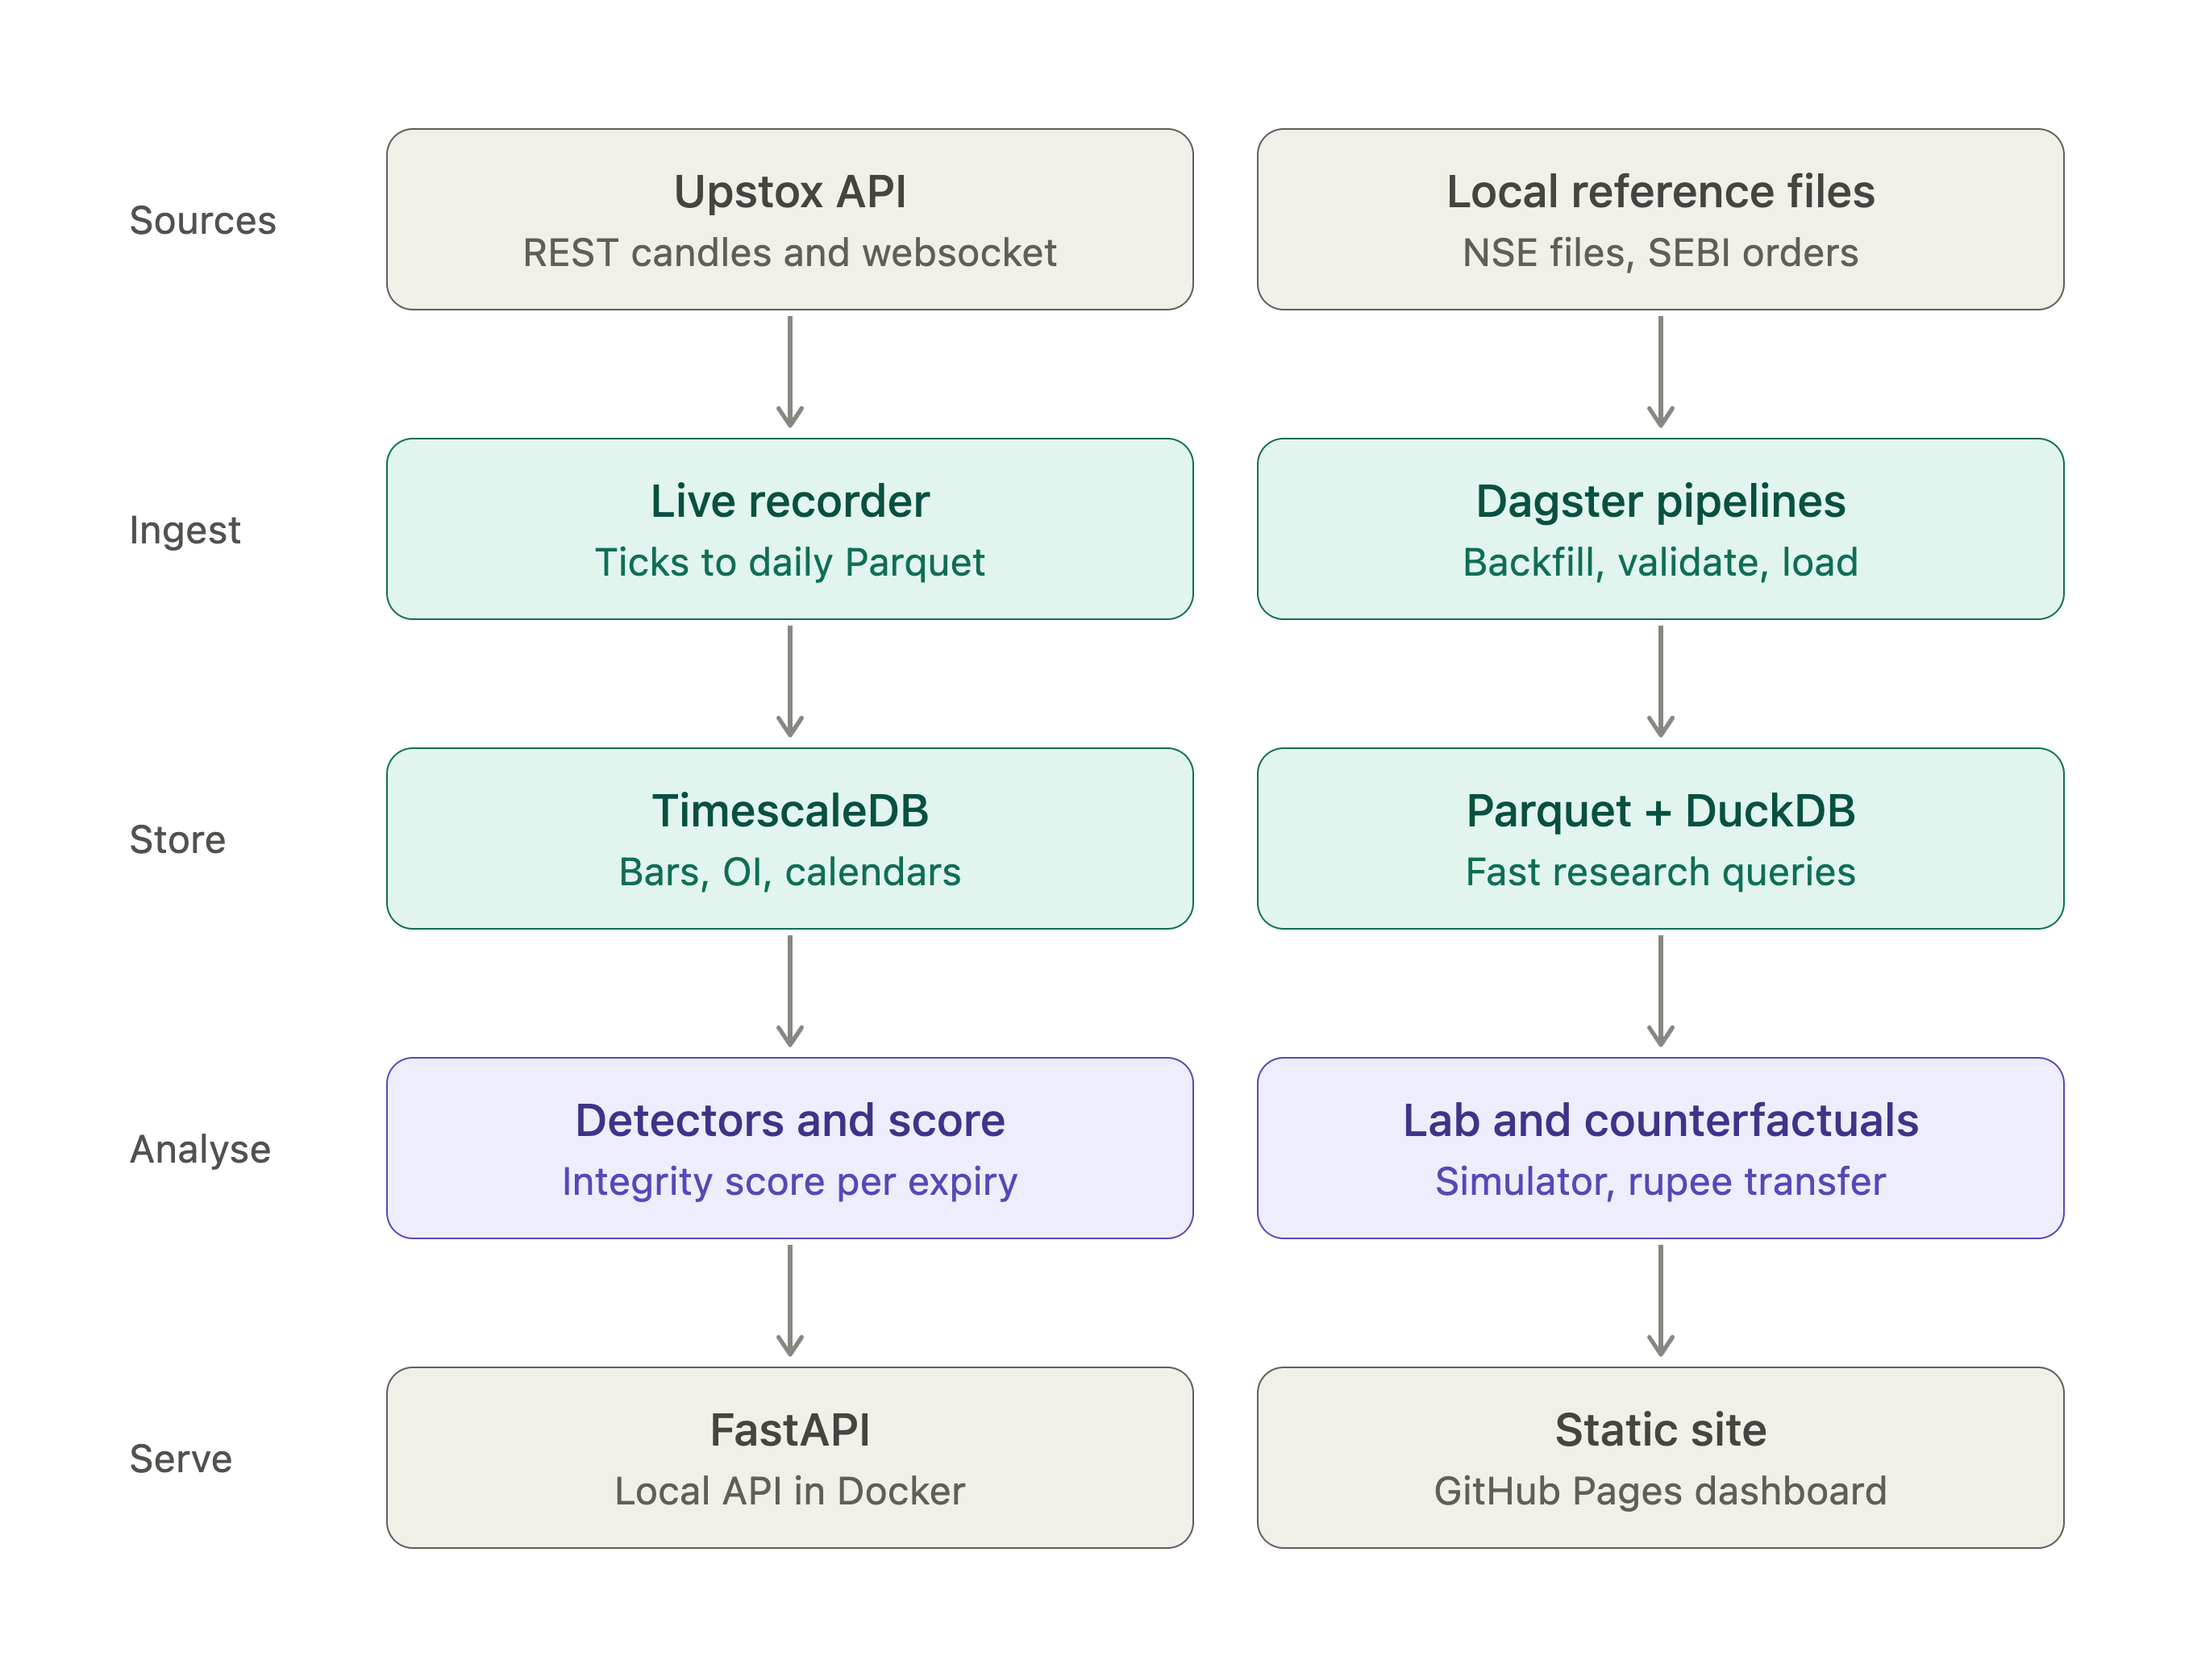
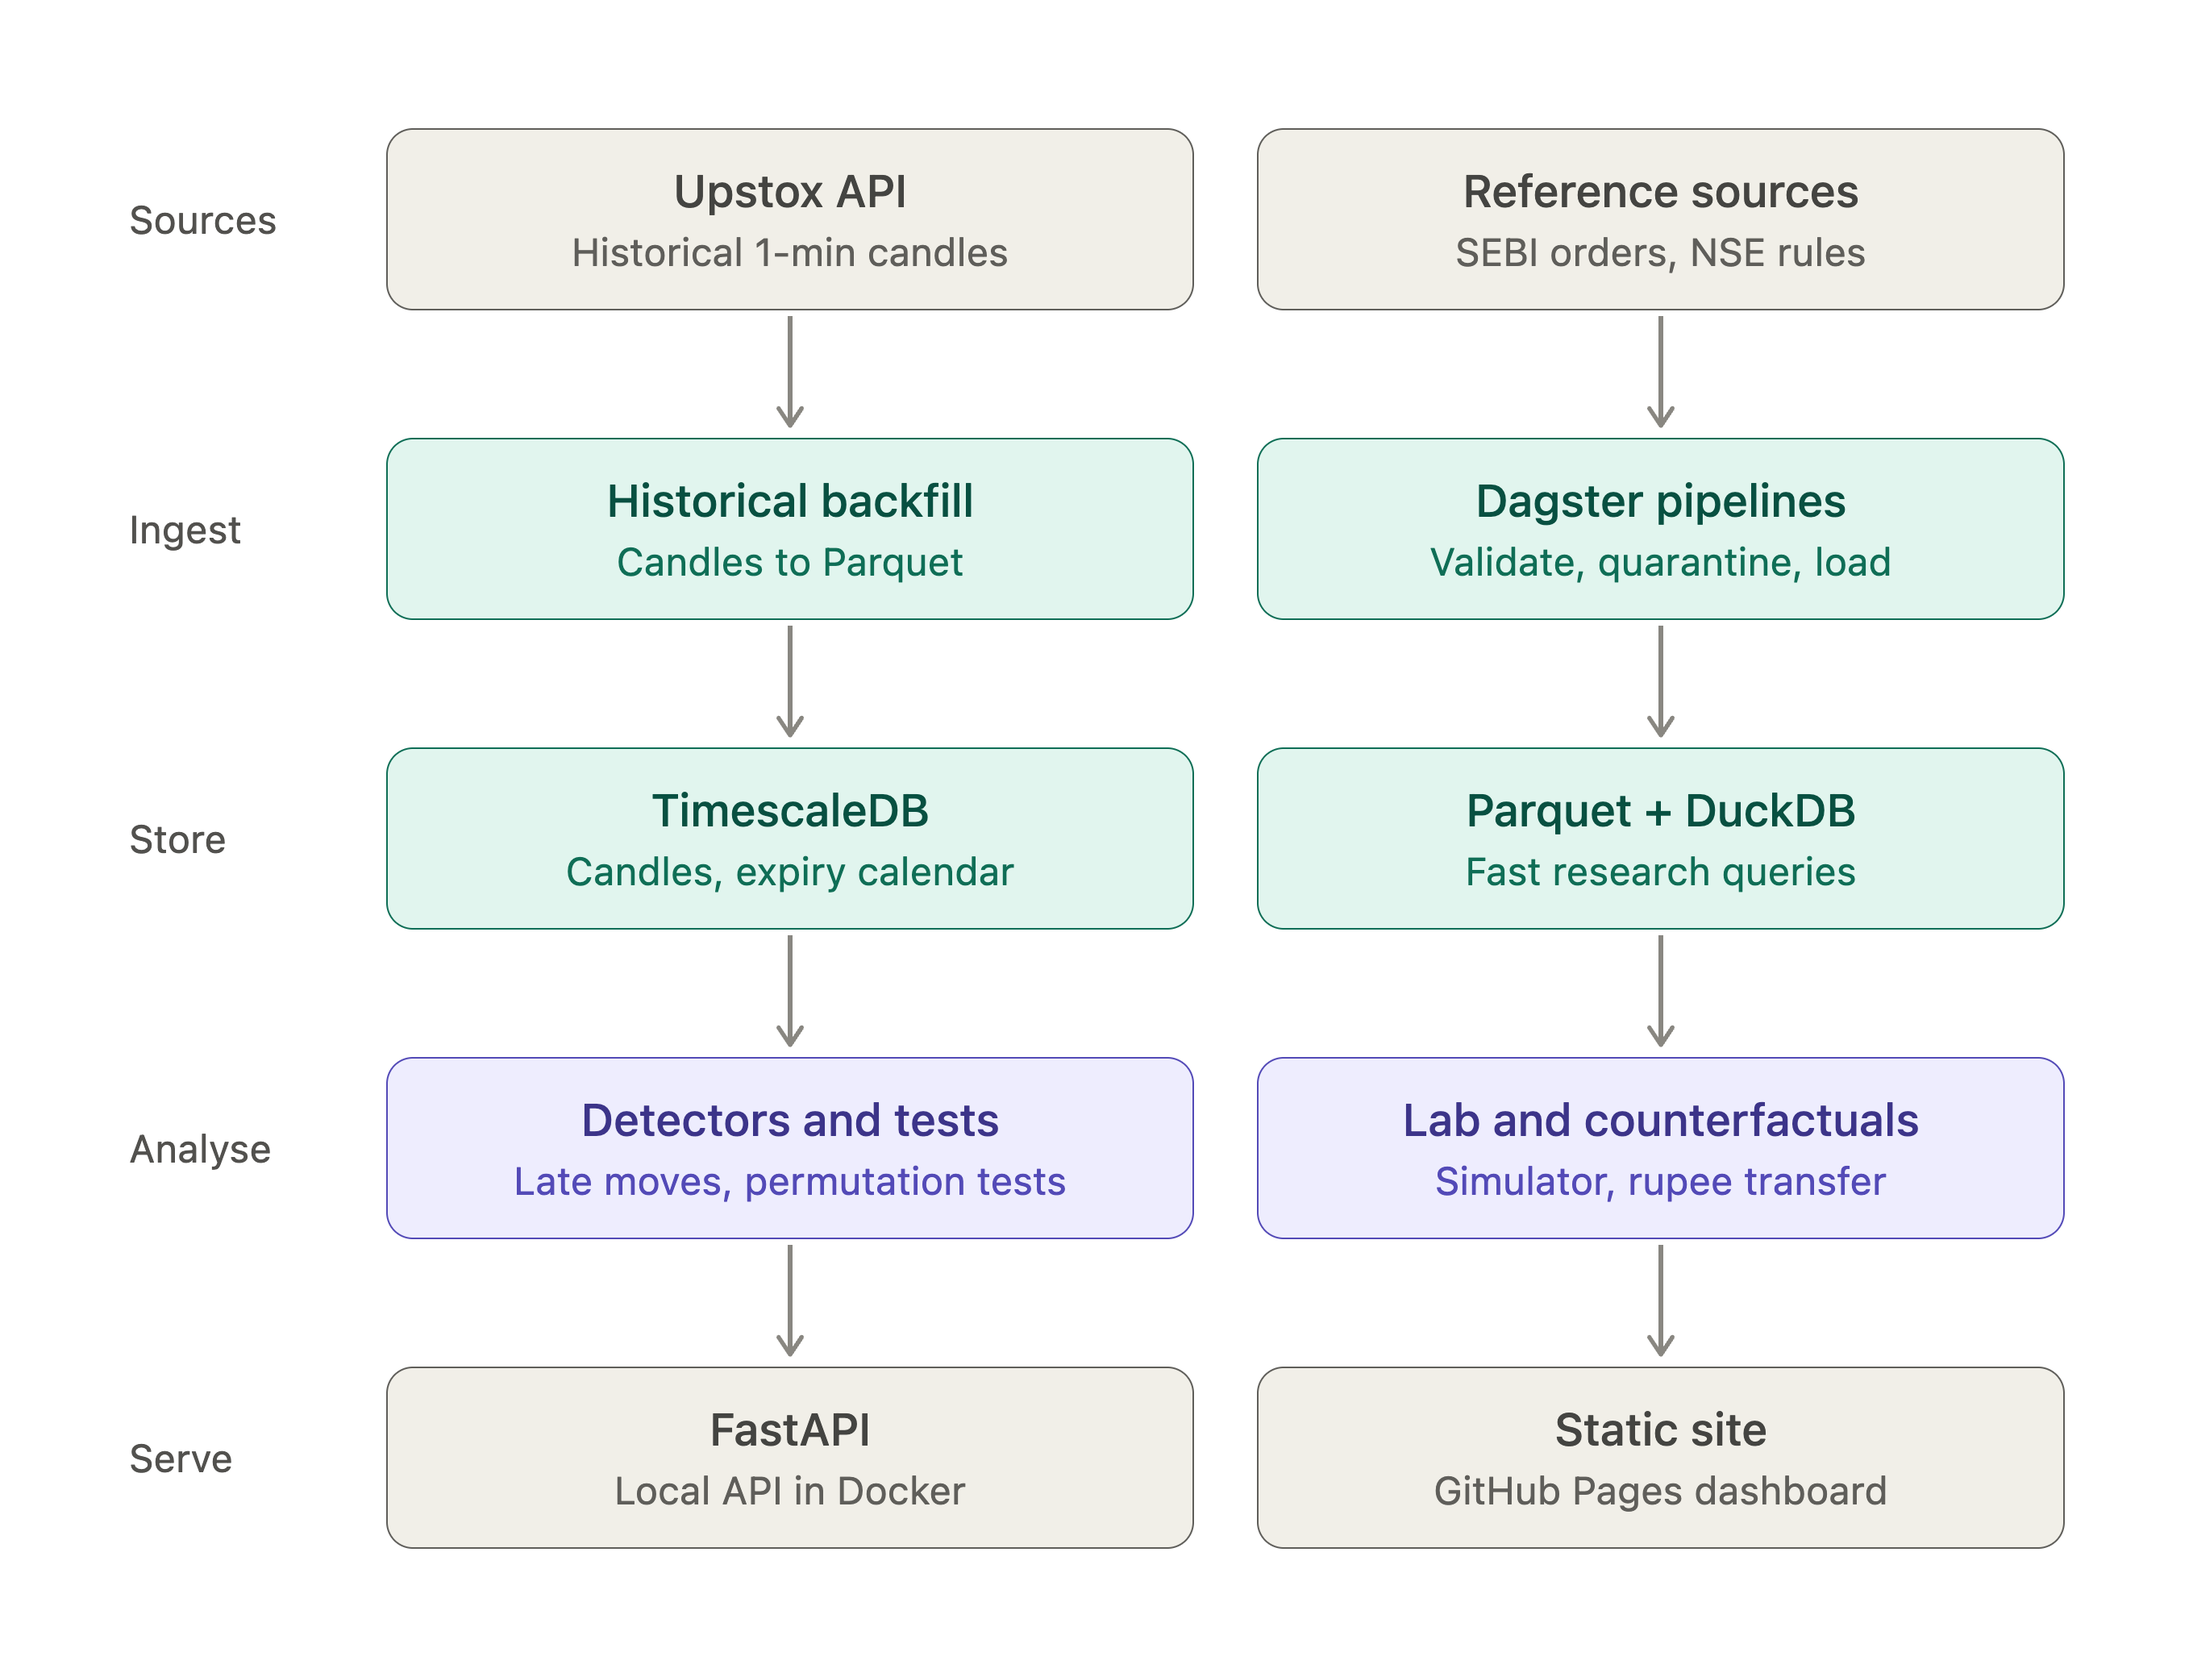
Rewrite README with findings and update diagrams

diff --git a/README.md b/README.md
@@ -2,31 +2,138 @@
 
 [![tests](https://github.com/dhiraj-tapkir/expirylens/actions/workflows/tests.yml/badge.svg)](https://github.com/dhiraj-tapkir/expirylens/actions/workflows/tests.yml)
 
-Studying how India's index expiry-day settlement can be pushed around, and
-how much it costs to move it, using only public market data.
+Measuring how India's index expiry-day closes behave, and how that changed when
+settlement moved from a 30-minute VWAP to a closing auction in August 2026.
+Built only on public market data.
 
-Status: early days. Setting up the environment and data pipelines.
+## Key findings so far
 
-## Why this exists
+Late move = how far the index moves from the 15:14 candle (the last minute
+before the closing auction freezes the index) to the day's final close.
+Median absolute late move, in basis points:
 
-SEBI's 2025 and 2026 orders on expiry-day trading showed how much money rides
-on the last few minutes of an expiry. ExpiryLens tries to measure those
-footprints openly, and to check how well that measurement actually works.
+| Index | Settlement regime | Normal days | Expiry days | Gap | p-value |
+|---|---|---|---|---|---|
+| Nifty 50 | VWAP (Sep 2025 to Jul 2026) | 4.3 | 7.7 | +3.3 | 0.0012 |
+| Nifty 50 | Closing auction (Aug to Nov 2026) | 11.8 | 14.3 | +2.5 | 0.27 |
+| Sensex | VWAP (Sep 2025 to Jul 2026) | 5.1 | 6.1 | +0.9 | 0.18 |
+| Sensex | Closing auction (Aug to Nov 2026) | 9.1 | 18.4 | +9.4 | 0.0084 |
 
-## Repo layout
+p-values come from permutation tests (10,000 shuffles, fixed seed). With five
+tests the bar is p < 0.01.
 
-- `pipelines/` data ingestion and validation
-- `api/` backend
-- `web/` dashboard
-- `research/` notebooks and experiments
-- `docs/` methodology and images
+- **Nifty** shows a clear expiry effect under VWAP settlement that fades after
+  the auction started.
+- **Sensex** shows the opposite: a weak effect before, roughly double after.
+- Leaving out 13 Aug 2026, the Sensex expiry in SEBI's Copthall interim order,
+  barely moves the Sensex result (9.4 to 8.9 bps). One day is not driving it.
+- During the closing auction the displayed index freezes from 15:15 to about
+  15:28, then jumps once. Any "last 30 minutes" metric has to account for this.
 
-More soon.
+These are statistical patterns, not evidence of manipulation. Hedging flows
+and differences between the two exchanges' auctions could explain them.
+Full notes, dates and open questions: [docs/findings.md](docs/findings.md).
+
+## What's built
+
+- **Ingestion:** a small Upstox client that pulls 1-minute candles a month at a
+  time, saves them as Parquet, and loads them into TimescaleDB through a
+  staging table. Re-running it never creates duplicates.
+- **Data quality:** out-of-session prints on normal days go to a quarantine
+  table with a reason, instead of being loaded or deleted. Every row is
+  accounted for (rows read = inserted + quarantined).
+- **Expiry calendar:** derived in SQL from the days that actually traded, so
+  holidays shift expiries automatically. Weeks the data doesn't fully cover yet
+  are skipped.
+- **Research:** a late-move view, permutation tests per index and regime, and a
+  leave-one-out robustness check.
+- **Tests:** 5 unit tests that run anywhere, plus 7 data tests against the real
+  database (known expiry days, no duplicates, OHLC sanity). CI runs on every
+  push.
+
+| | |
+|---|---|
+| Candles | 221,510 (Nifty 50 and Sensex, Sep 2025 to Nov 2026) |
+| Trading days | 297 per index, including 2 Muhurat sessions |
+| Expiries | 125 (63 Nifty, 62 Sensex) |
+| Quarantined prints | 2 |
+| TimescaleDB chunks | 63 weekly chunks |
 
 ## Architecture
 
 ![ExpiryLens architecture](docs/images/expirylens_architecture.png)
 
-## Daily workflow
+## Data workflow
 
-![ExpiryLens daily workflow](docs/images/expirylens_daily_workflow.png)
+![ExpiryLens data workflow](docs/images/expirylens_daily_workflow.png)
+
+## Run it yourself
+
+You need Docker, [uv](https://docs.astral.sh/uv/), and a free Upstox account
+for an Analytics (read-only) token.
+
+```bash
+git clone https://github.com/dhiraj-tapkir/expirylens.git
+cd expirylens
+uv sync
+
+# secrets live in .env, which git ignores
+echo "POSTGRES_PASSWORD=$(openssl rand -hex 16)" > .env
+echo "UPSTOX_ACCESS_TOKEN=<your analytics token>" >> .env
+
+# database
+docker compose up -d
+docker exec -i expirylens-db psql -U expiry -d expirylens < infra/sql/001_init.sql
+
+# data
+uv run python -m pipelines.backfill "NSE_INDEX|Nifty 50" 2025-09-01 2026-11-11
+uv run python -m pipelines.backfill "BSE_INDEX|SENSEX" 2025-09-01 2026-11-11
+uv run python -m pipelines.load_candles data/raw/candles/nse_index_nifty_50.parquet
+uv run python -m pipelines.load_candles data/raw/candles/bse_index_sensex.parquet
+
+# calendar, metrics, tests, results
+docker exec -i expirylens-db psql -U expiry -d expirylens < infra/sql/002_expiry_calendar.sql
+docker exec -i expirylens-db psql -U expiry -d expirylens < infra/sql/003_late_move.sql
+uv run pytest -v
+uv run python -m research.late_move_test
+```
+
+## Repo layout
+
+| Folder | What's in it |
+|---|---|
+| `pipelines/` | Upstox client, backfill, loader with quarantine, DB helper |
+| `infra/sql/` | Schema, expiry calendar, late-move view |
+| `research/` | Statistical tests |
+| `tests/` | Unit and data tests |
+| `docs/` | Findings log and diagrams |
+| `api/`, `web/` | Backend and dashboard (coming) |
+
+## Limitations
+
+- 1-minute candles can't show what happens inside the closing auction.
+- The last candle of the day is used as the close. Official settlement values
+  are not in yet.
+- Only 14 to 15 closing-auction expiries per index so far, so the CAS results
+  carry wide uncertainty.
+- Holidays are inferred from missing trading days and still need checking
+  against NSE's official list.
+- SEBI's orders referenced here are interim, not final findings.
+
+## Roadmap
+
+- Dagster orchestration and Pandera data contracts
+- Official settlement values and Bank Nifty
+- Closing-auction depth per exchange, to test why Nifty and Sensex differ
+- ExpiryLab: an agent-based simulator with known manipulations, to measure how
+  well the detectors actually work
+- Counterfactual settlement and rupee-transfer estimates
+- FastAPI backend and a public dashboard on GitHub Pages
+- Re-run everything once expiries settle on the 30-minute VWAP again (from
+  7 Dec 2026)
+
+## Data note
+
+Market data comes from the Upstox API and stays local. Only code and derived
+results are published here. This is independent research for learning, not
+investment advice.
